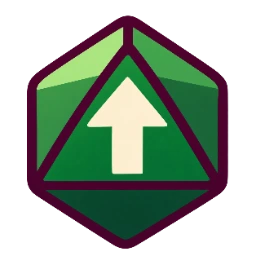
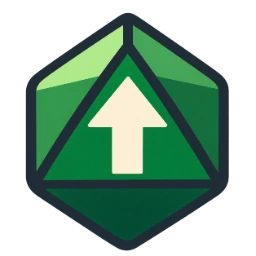
Перерисовать контуры кубиков преимущества и помехи

Changed region(s): [[0.0938, 0.0312, 0.9062, 1.0], [0.4375, 0.3438, 0.4688, 0.375], [0.4062, 0.375, 0.4375, 0.4062]]

diff --git a/design/README.md b/design/README.md
@@ -37,6 +37,8 @@ WorkspaceRowDividerHeight (3)
 WebP входят в общий frontend и доступны без отдельного запроса к справочнику.
 Их происхождение описывает [манифест](roll-mode-icons.json). Иконки записей
 словаря характеристик продолжают храниться в `storage_image` и приходят с данными.
+У обеих меток холодный нейтральный тёмный контур; зелёным и красным окрашены
+грани кубиков, стрелки сохраняют светлый цвет.
 
 Из корня репозитория:
 
